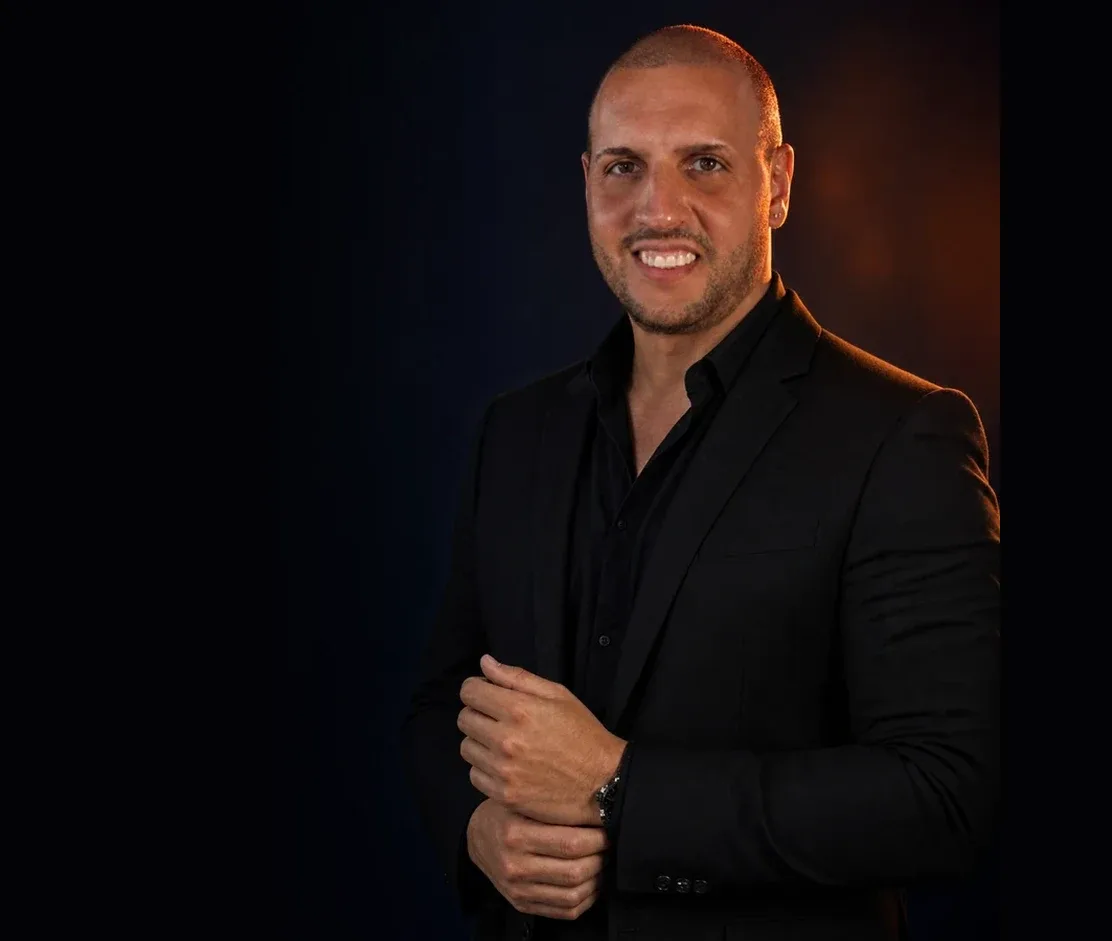
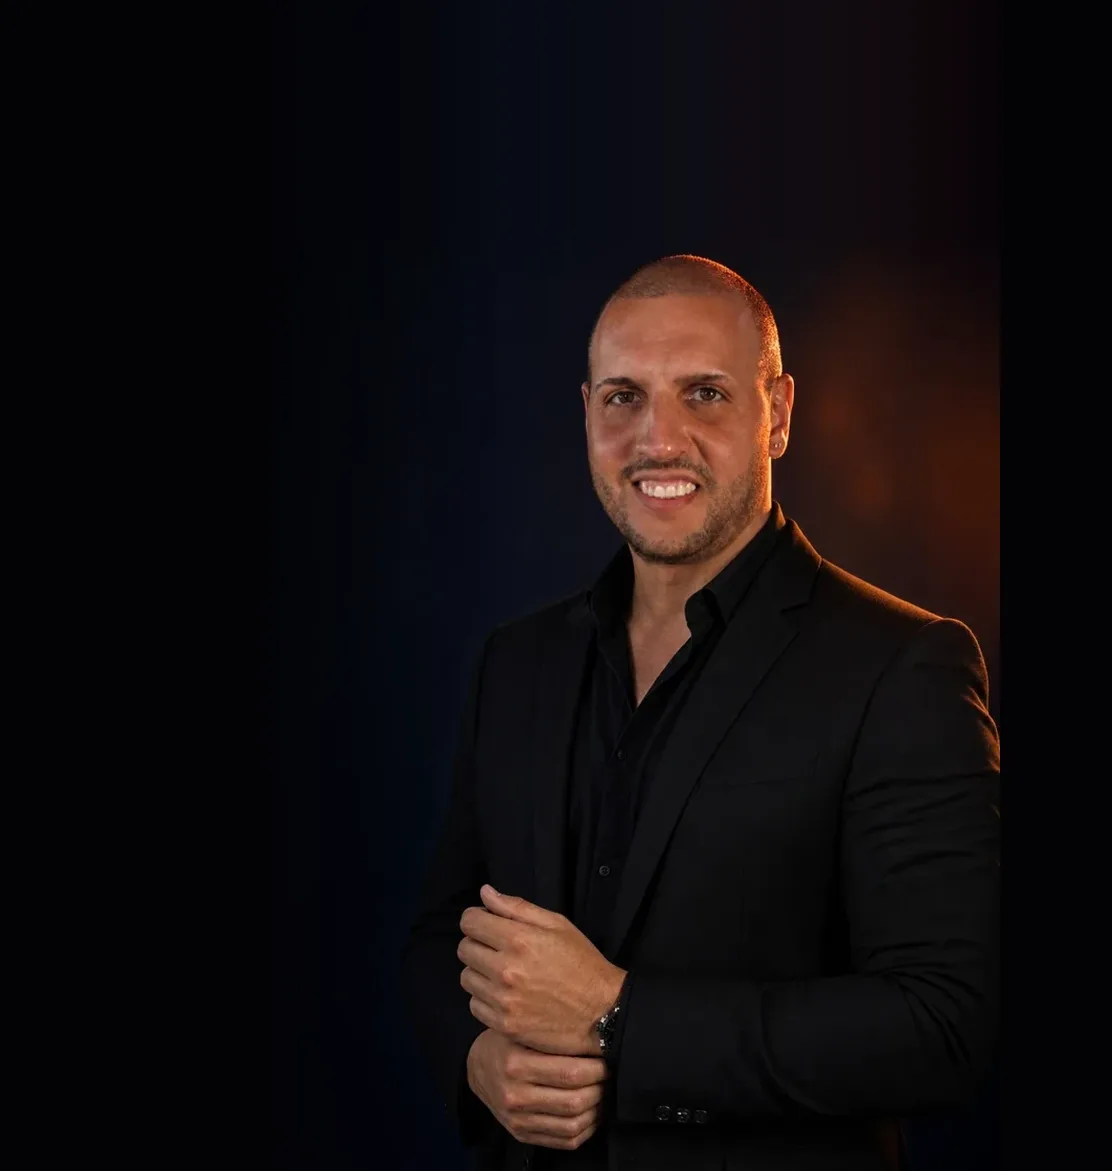
Migliore Software cover: Matteo's photo with headroom

Changed region(s): [[0.5198, 0.0, 0.9173, 0.678], [0.3975, 0.678, 0.5809, 0.9862]]

diff --git a/miglioresoftware/_src/template.html b/miglioresoftware/_src/template.html
@@ -33,7 +33,7 @@ p{line-height:1.5}
 .pair img{display:block;height:30px;width:auto}.pair .x{color:var(--or);font-size:22px}.pair .nm{font-size:20px;font-weight:700;min-width:0;overflow-wrap:anywhere}
 /* 1 cover */
 .cover{padding:0;background:var(--dark);color:#fff}
-.cover .ph{position:absolute;right:0;top:0;bottom:0;width:58%;background:#0d0f14 url(../assets/ms-matteo-hero.webp) 70% 18%/cover}
+.cover .ph{position:absolute;right:0;top:0;bottom:0;width:58%;background:#0d0f14 url(../assets/ms-matteo-hero.webp) 70% 0/cover}
 .cover .ph:before{content:"";position:absolute;inset:0;background:linear-gradient(90deg,var(--dark) 0%,rgba(13,15,20,.85) 28%,rgba(13,15,20,0) 62%)}
 .cover .l{position:relative;z-index:1;width:64%;height:100%;padding:48px 0 88px 72px;display:flex;flex-direction:column}
 .cover .pair .nm{color:#fff}
@@ -110,7 +110,7 @@ html.phone .pc{font-size:14px;color:var(--mute)}html.phone .pc b{color:var(--ink
 html.phone h1{font-size:28px}html.phone h2{font-size:23px;margin-top:4px}html.phone .eyebrow{font-size:11.5px}
 html.phone .pair{gap:10px}html.phone .pair img{height:19px}html.phone .pair .nm{font-size:15px}html.phone .pair .x{font-size:16px}
 html.phone .cover{padding:0}
-html.phone .cover .ph{left:0;width:auto;top:auto;height:34%;background-position:62% 16%}
+html.phone .cover .ph{left:0;width:auto;top:auto;height:34%;background-position:62% 4%}
 html.phone .cover .ph:before{background:linear-gradient(180deg,var(--dark) 0%,rgba(13,15,20,.35) 40%,rgba(13,15,20,0) 70%)}
 html.phone .cover .l{width:auto;height:66%;padding:20px 18px 0}
 html.phone .cover .m{margin:auto 0}

diff --git a/miglioresoftware/starmatik/index.html b/miglioresoftware/starmatik/index.html
@@ -33,7 +33,7 @@ p{line-height:1.5}
 .pair img{display:block;height:30px;width:auto}.pair .x{color:var(--or);font-size:22px}.pair .nm{font-size:20px;font-weight:700;min-width:0;overflow-wrap:anywhere}
 /* 1 cover */
 .cover{padding:0;background:var(--dark);color:#fff}
-.cover .ph{position:absolute;right:0;top:0;bottom:0;width:58%;background:#0d0f14 url(../assets/ms-matteo-hero.webp) 70% 18%/cover}
+.cover .ph{position:absolute;right:0;top:0;bottom:0;width:58%;background:#0d0f14 url(../assets/ms-matteo-hero.webp) 70% 0/cover}
 .cover .ph:before{content:"";position:absolute;inset:0;background:linear-gradient(90deg,var(--dark) 0%,rgba(13,15,20,.85) 28%,rgba(13,15,20,0) 62%)}
 .cover .l{position:relative;z-index:1;width:64%;height:100%;padding:48px 0 88px 72px;display:flex;flex-direction:column}
 .cover .pair .nm{color:#fff}
@@ -110,7 +110,7 @@ html.phone .pc{font-size:14px;color:var(--mute)}html.phone .pc b{color:var(--ink
 html.phone h1{font-size:28px}html.phone h2{font-size:23px;margin-top:4px}html.phone .eyebrow{font-size:11.5px}
 html.phone .pair{gap:10px}html.phone .pair img{height:19px}html.phone .pair .nm{font-size:15px}html.phone .pair .x{font-size:16px}
 html.phone .cover{padding:0}
-html.phone .cover .ph{left:0;width:auto;top:auto;height:34%;background-position:62% 16%}
+html.phone .cover .ph{left:0;width:auto;top:auto;height:34%;background-position:62% 4%}
 html.phone .cover .ph:before{background:linear-gradient(180deg,var(--dark) 0%,rgba(13,15,20,.35) 40%,rgba(13,15,20,0) 70%)}
 html.phone .cover .l{width:auto;height:66%;padding:20px 18px 0}
 html.phone .cover .m{margin:auto 0}
